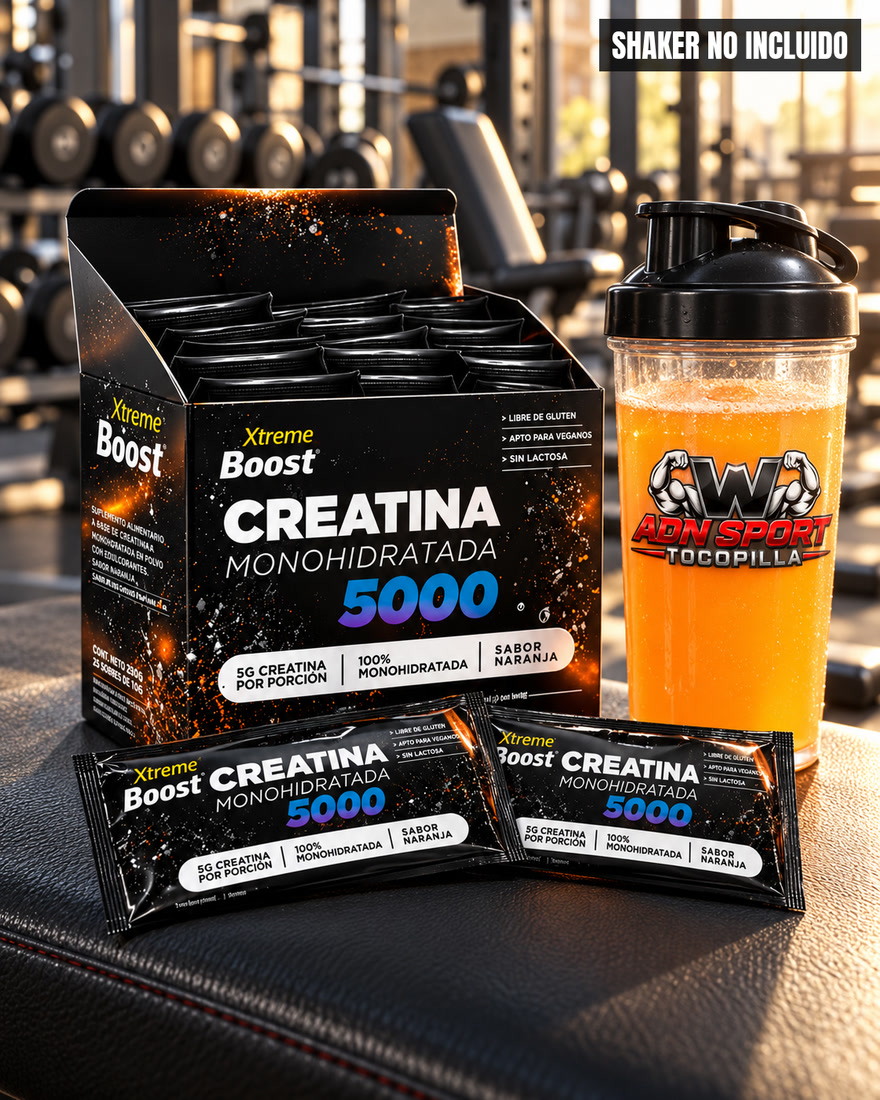
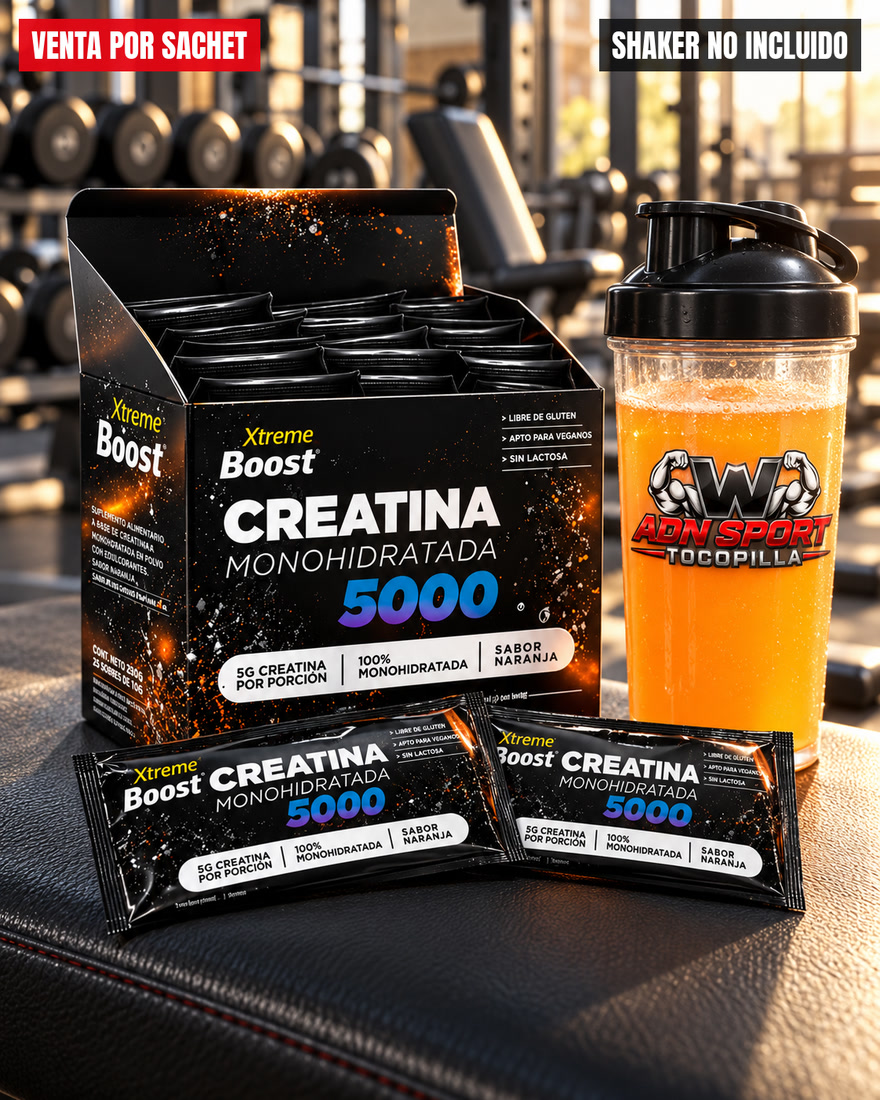
Tienda: «Venta por sachet» en la creatina Xtreme Boost
Claude-Session: https://claude.ai/code/session_013ZgZPSRHEDhMsqmx8Km842

Changed region(s): [[0.0, 0.0, 0.3068, 0.0927]]

diff --git a/tienda.html b/tienda.html
@@ -221,7 +221,7 @@ function hoyISO(){ return new Intl.DateTimeFormat("en-CA", { timeZone:"America/S
 function ahoraTxt(){ var f = new Intl.DateTimeFormat("sv-SE", { timeZone:"America/Santiago", year:"numeric", month:"2-digit", day:"2-digit", hour:"2-digit", minute:"2-digit" }).format(new Date()); return f.replace("T", " ").slice(0, 16); }
 function normTxt(s){ return String(s || "").toUpperCase().normalize("NFD").replace(/[̀-ͯ]/g, ""); }
 /* Al cambiar una foto en img/tienda/ (mismo nombre), subir FOTO_V para que los teléfonos no muestren la antigua. */
-var FOTO_V = "39";
+var FOTO_V = "40";
 function fotoUrl(f){ return f ? f + (f.indexOf("?") < 0 ? "?v=" + FOTO_V : "") : ""; }
 function iconoCat(c){ var x = CATS.filter(function(k){ return k[0] === c; })[0]; return x ? x[1] : "📦"; }
 function toast(t, ms){ var el = $("toast"); el.textContent = t; el.style.display = "block"; clearTimeout(toast.t); toast.t = setTimeout(function(){ el.style.display = "none"; }, ms || 2600); }
@@ -303,7 +303,7 @@ setInterval(function(){ if(pend.length) enviarPendientes(); }, 30000);
    el computador"): los datos se vuelven a pedir a la planilla cada 30 s mientras la página está a la vista (sin una ficha
    abierta), y cada minuto se revisa tienda-version.txt: si hay una versión nueva de la página, se recarga sola.
    Cada vez que se cambie tienda.html, subir TIENDA_VERSION y tienda-version.txt juntos (AAAAMMDDNN). */
-var TIENDA_VERSION = "2026102531";
+var TIENDA_VERSION = "2026102532";
 setInterval(function(){ if(clave && !document.hidden && $("velo").hidden && !$("app").hidden) enviarPendientes().then(function(){ cargar(true); }); }, 30000);
 function revisarVersion(){
  fetch("tienda-version.txt?t=" + Date.now(), { cache:"no-store" }).then(function(r){ return r.ok ? r.text() : ""; }).then(function(v){

diff --git a/CLAUDE.md b/CLAUDE.md
@@ -1528,7 +1528,7 @@ Versión 23). Celular y compu ven el mismo inventario.
   tarro lleva una etiqueta 200… propia (cada escaneo vende 1 porción). Pre entreno Mr Hyde Signature Fruit Punch
   (tarro $21.400, 30 porciones → $713; venta $2.000; foto `img/tienda/pre-entreno-mr-hyde-signature.jpg`: tarro en el gimnasio con scoop lleno, shaker con el logo del gimnasio y franja roja/dorada «SE VENDE POR PORCIÓN» en Rubik Distressed, hecha con ffmpeg).
   Llegan el lunes 26-10-2026 (cargar ese día): Creatina Xtreme Boost en sachet (pack $19.990 con tabletas de pre entreno que
-  son para la dueña → costo $1.000 c/u, venta $2.000; foto `img/tienda/creatina-xtreme-boost-sachet.jpg`: caja abierta y dos sobres en el gimnasio, shaker con el logo, sin franja porque los sobres ya muestran que se vende por unidad) y Creatina Ostrovit 500 g mango por tarro (2 por $22.220 → $11.110 c/u; venta $30.000; foto `img/tienda/creatina-ostrovit-500g.jpg` en el gimnasio, shaker con el logo).
+  son para la dueña → costo $1.000 c/u, venta $2.000; foto `img/tienda/creatina-xtreme-boost-sachet.jpg`: caja abierta y dos sobres en el gimnasio, shaker con el logo; sin franja grande, pero con etiqueta roja «VENTA POR SACHET» arriba a la izquierda, pedida por la dueña) y Creatina Ostrovit 500 g mango por tarro (2 por $22.220 → $11.110 c/u; venta $30.000; foto `img/tienda/creatina-ostrovit-500g.jpg` en el gimnasio, shaker con el logo).
   **«SHAKER NO INCLUIDO» (25-10-2026, pedido de la dueña):** las fotos con shaker (Mr Hyde, Ostrovit, Xtreme Boost) llevan arriba a la derecha
   una etiqueta negra con letra blanca Anton (`contenido/fuentes/Anton.ttf`, ffmpeg `drawtext`). Toda foto nueva con shaker la lleva.
   Categorías de ropa (24-10-2026, la dueña: "esta es ropa de hombre"): «Ropa mujer» 👚 y «Ropa hombre» 👕 (`catNueva`: lo
